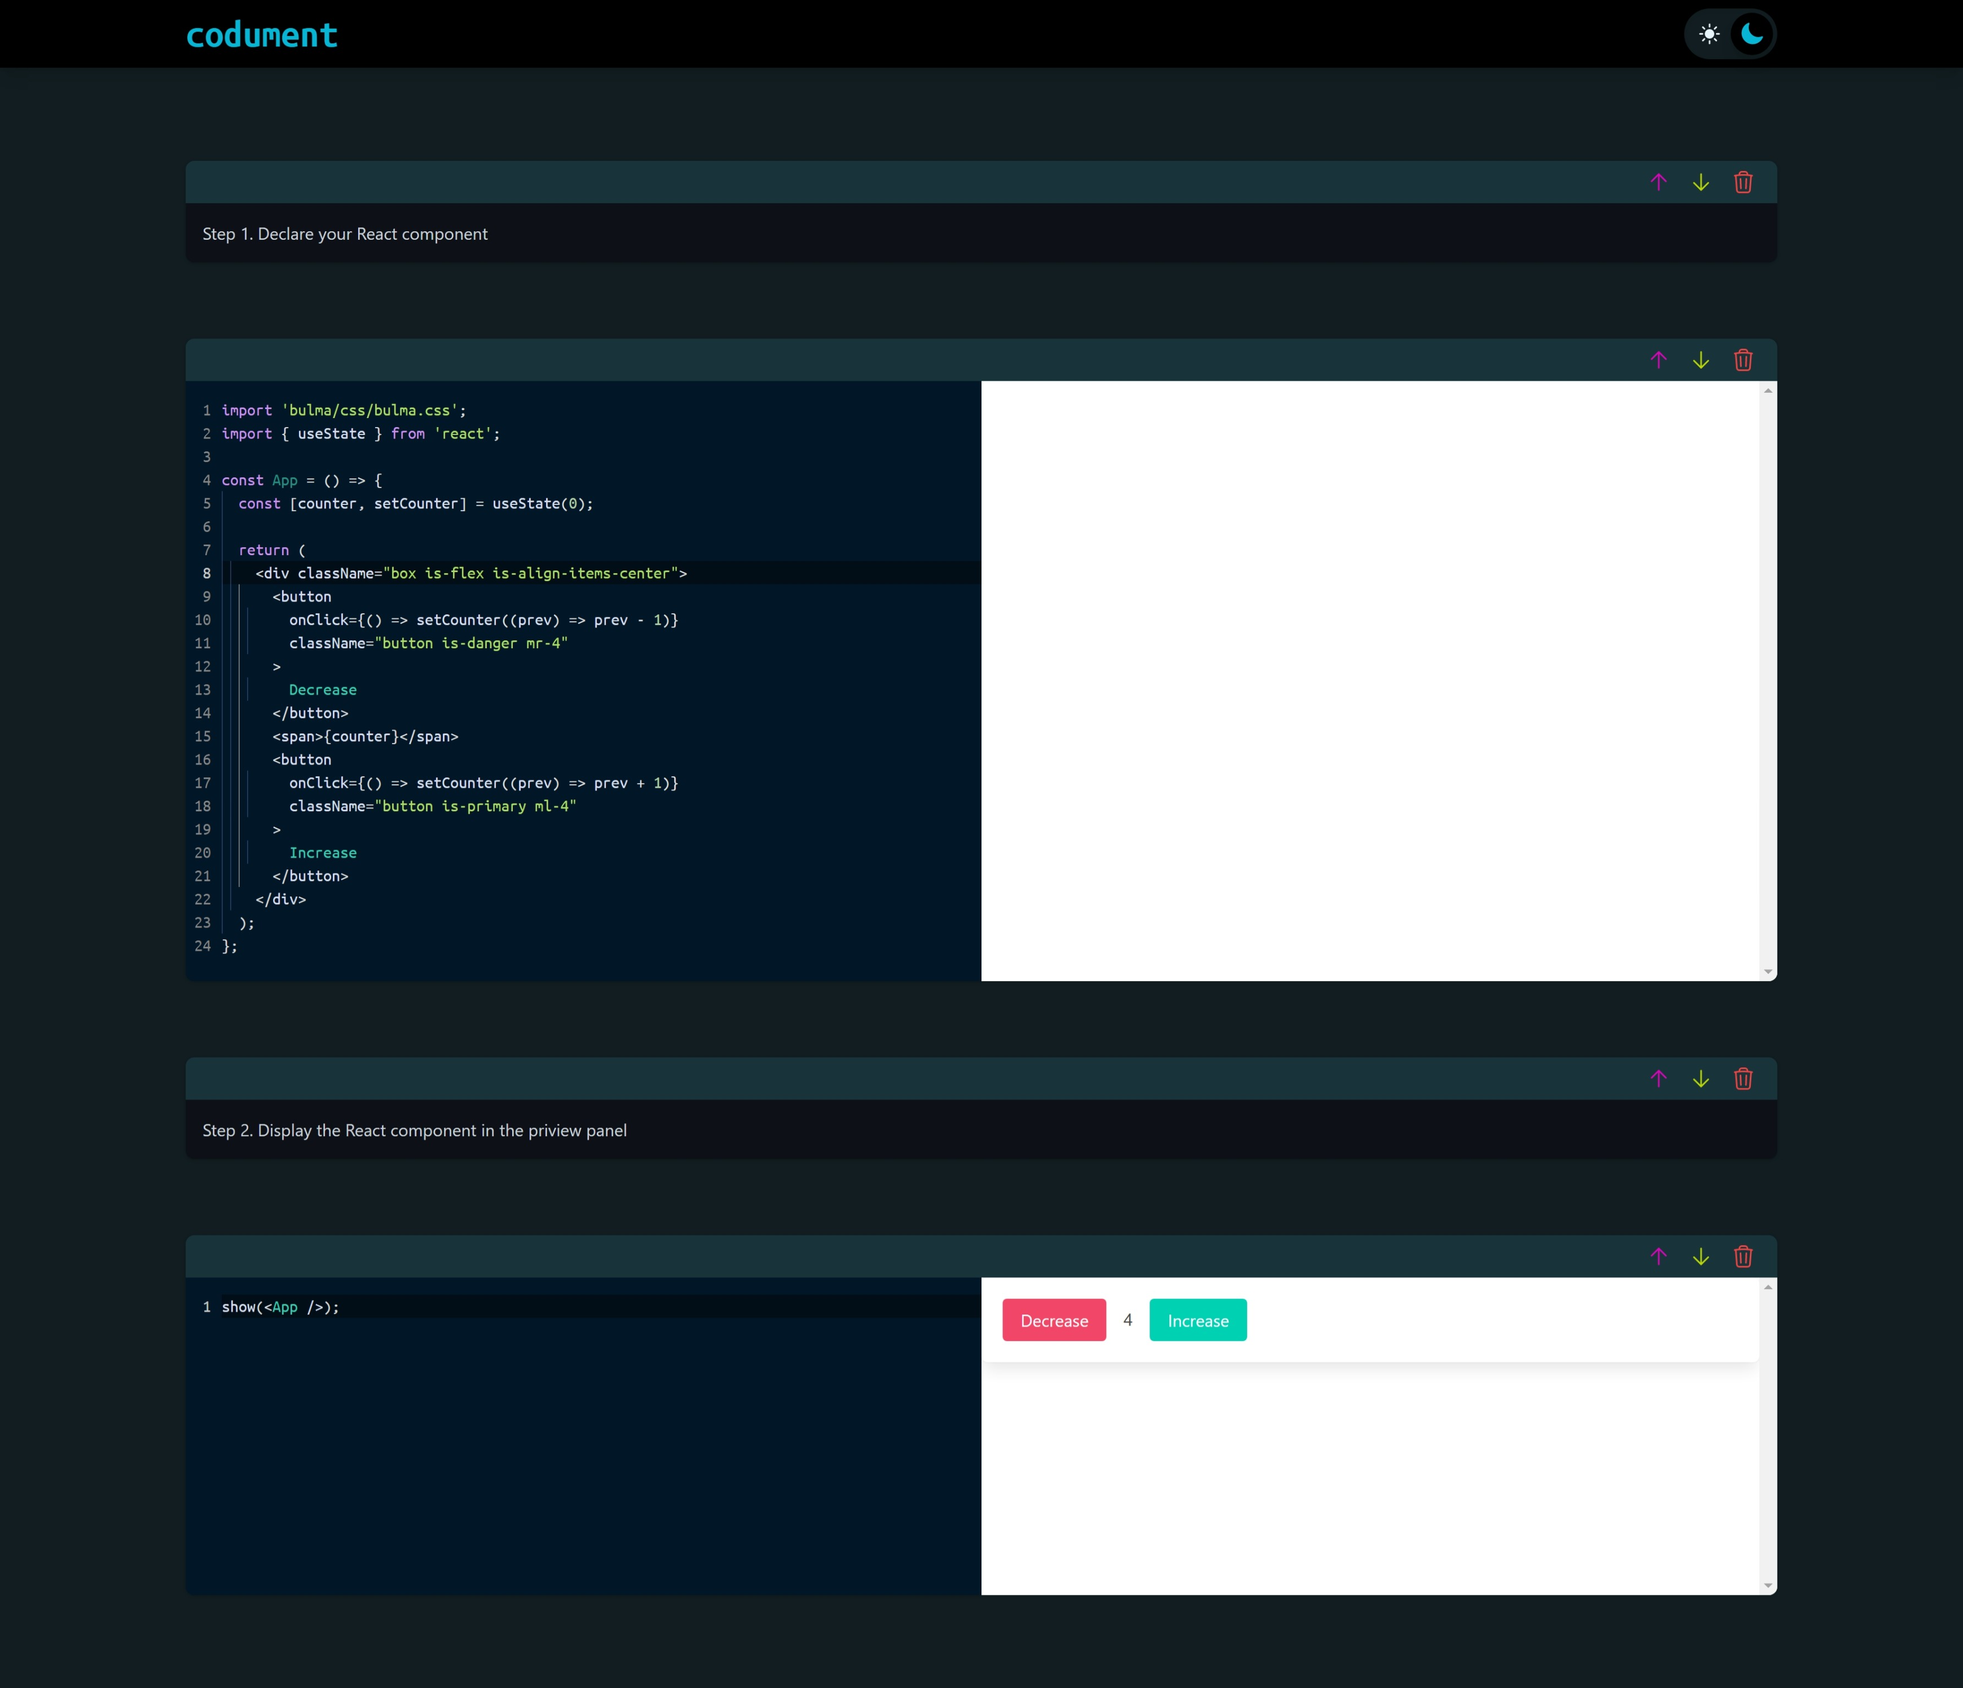
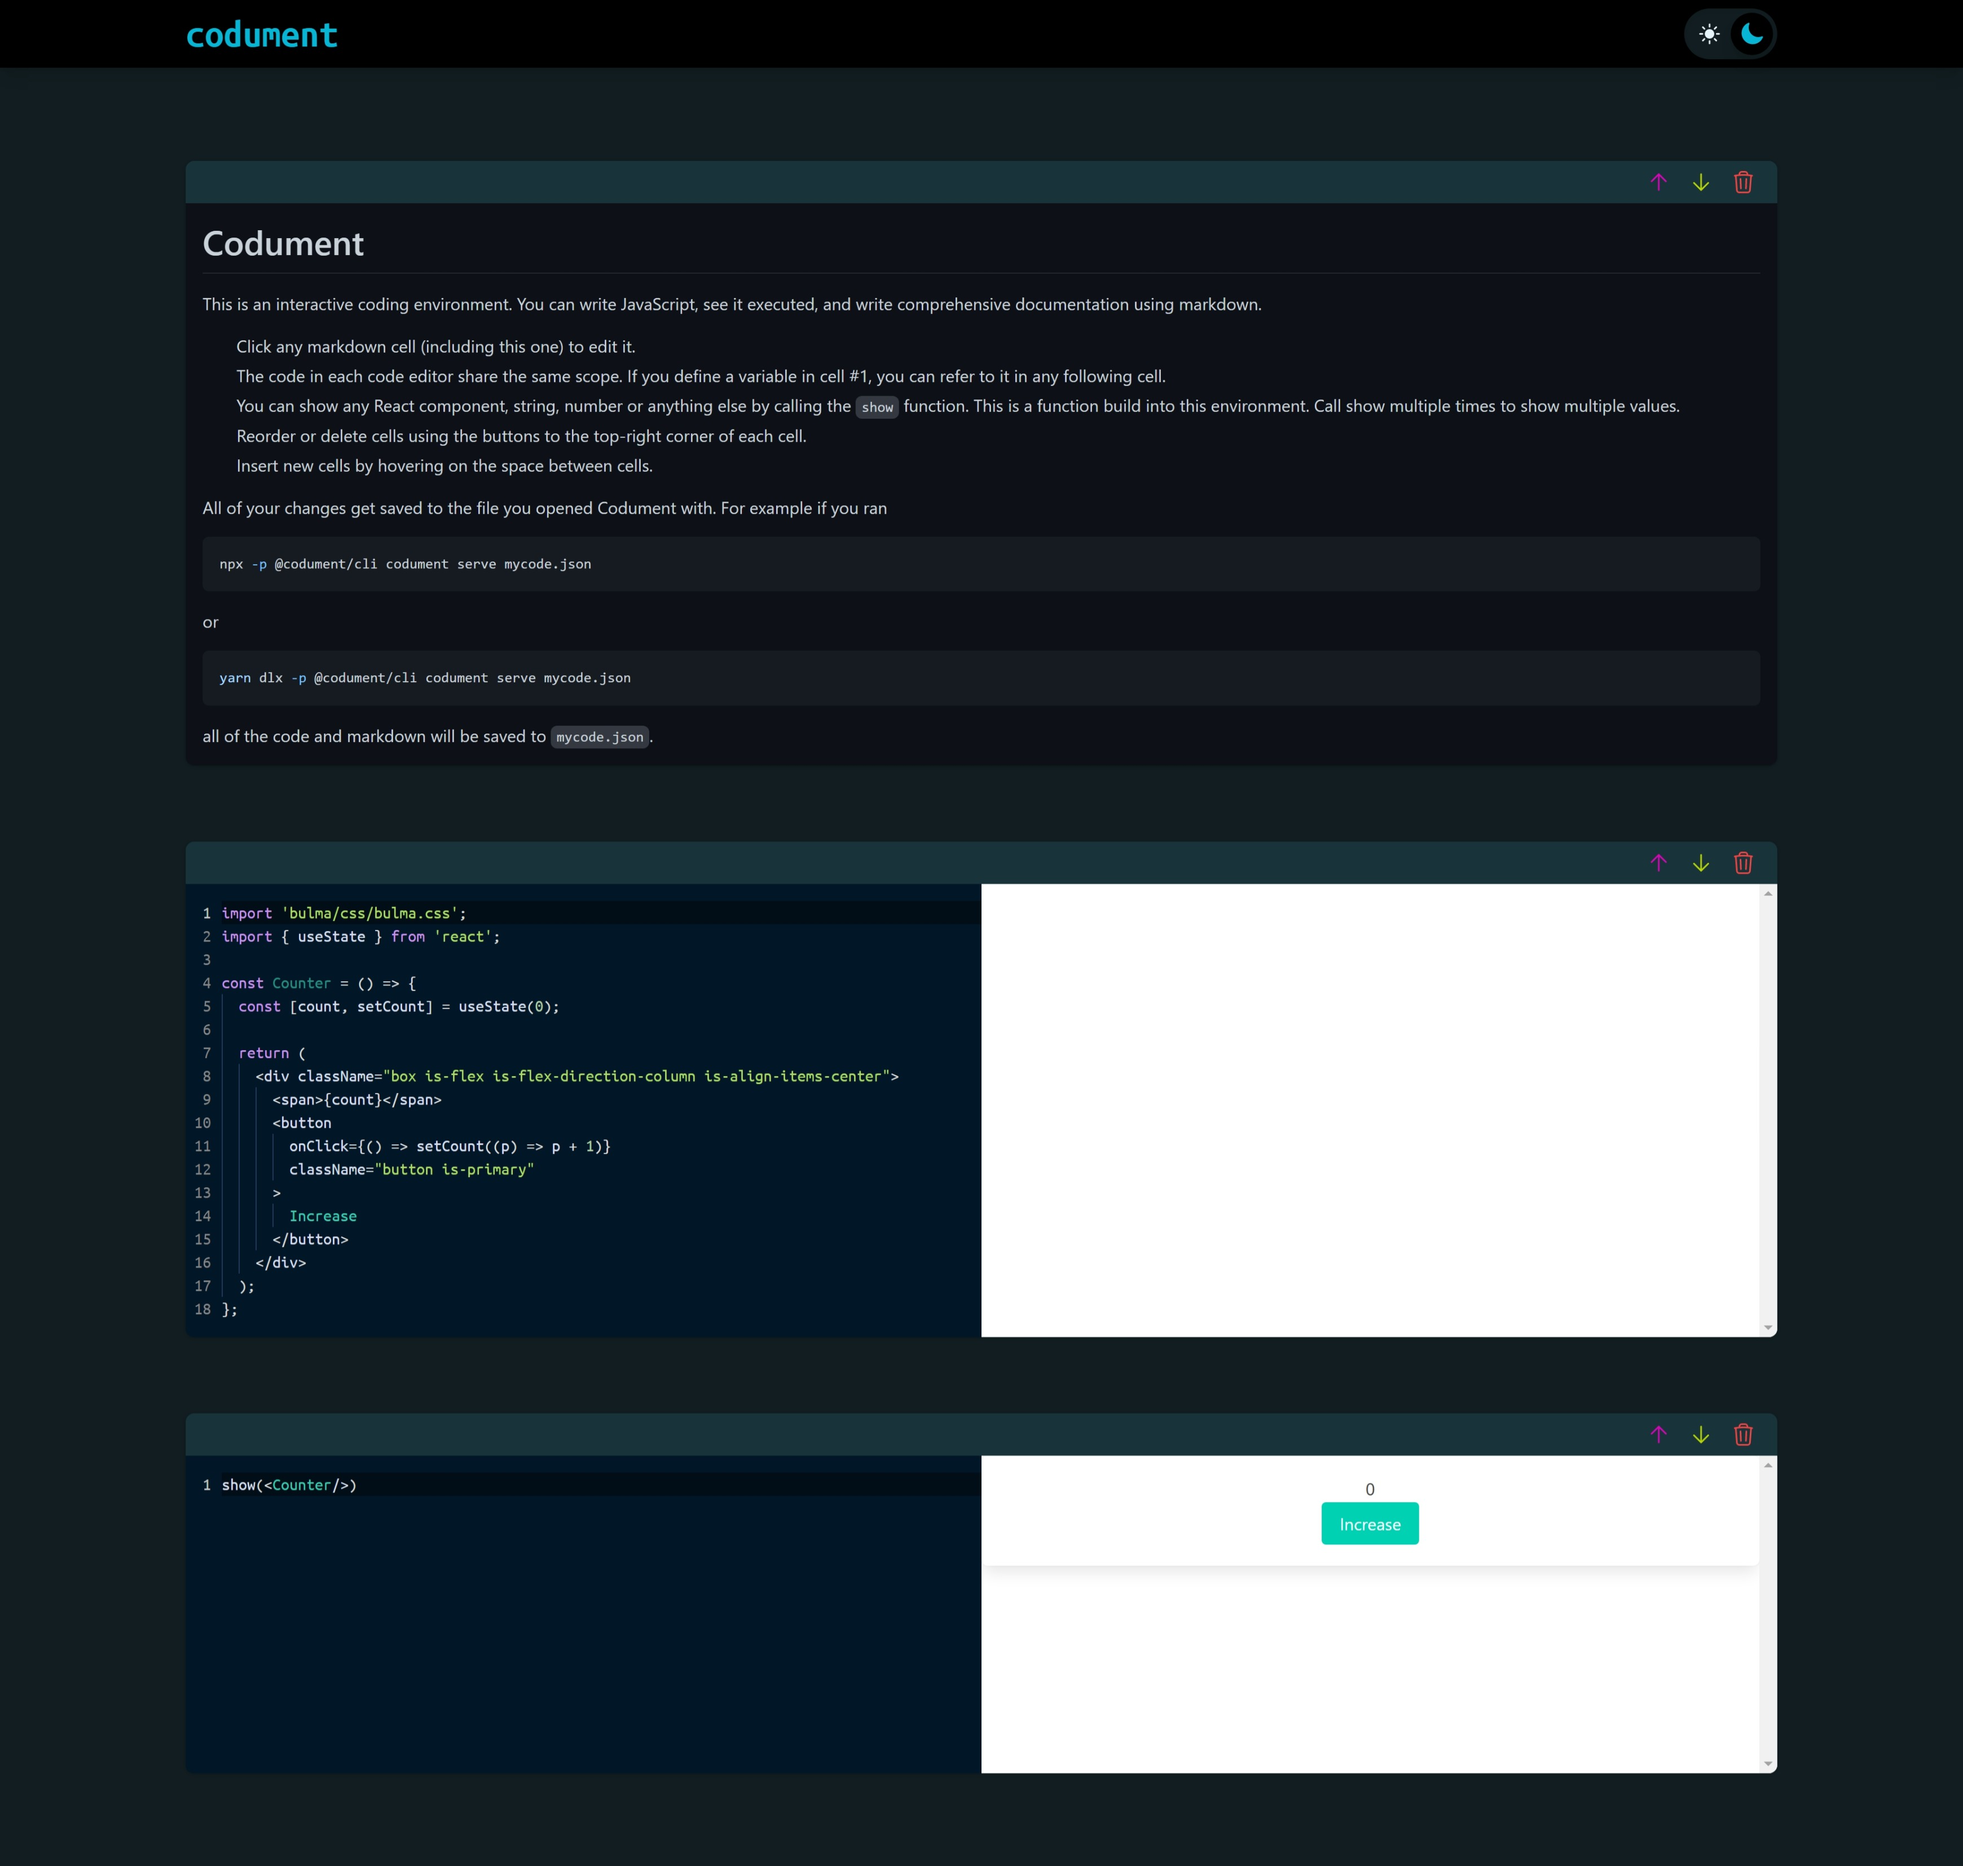
feat(ui): display default cells if file is new

diff --git a/packages/ui/src/features/cells/state/cells.slice.ts b/packages/ui/src/features/cells/state/cells.slice.ts
@@ -70,7 +70,30 @@ const cellsSlice = createSlice({
         (state, { payload }) => {
           const cells = payload;
           state.loading = false;
-          state.data = cellsAdapter.addMany(state.data, cells);
+          if (cells.length > 0)
+            state.data = cellsAdapter.addMany(state.data, cells);
+          else {
+            const defaultCells: Cell[] = [
+              {
+                content:
+                  '# Codument\n\nThis is an interactive coding environment. You can write JavaScript, see it executed, and write comprehensive documentation using markdown.\n\n- Click any markdown cell (including this one) to edit it.\n- The code in each code editor share the same scope. If you define a variable in cell #1, you can refer to it in any following cell.\n- You can show any React component, string, number or anything else by calling the `show` function. This is a function build into this environment. Call show multiple times to show multiple values.\n- Reorder or delete cells using the buttons to the top-right corner of each cell.\n- Insert new cells by hovering on the space between cells.\n\nAll of your changes get saved to the file you opened Codument with. For example if you ran\n\n```bash\nnpx -p @codument/cli codument serve mycode.json\n```\n\nor\n\n```bash\nyarn dlx -p @codument/cli codument serve mycode.json\n```\n\nall of the code and markdown will be saved to `mycode.json`.',
+                id: nanoid(),
+                type: 'markdown',
+              },
+              {
+                content:
+                  'import \'bulma/css/bulma.css\';\nimport { useState } from \'react\';\n\nconst Counter = () => {\n  const [count, setCount] = useState(0);\n\n  return (\n    <div className="box is-flex is-flex-direction-column is-align-items-center">\n      <span>{count}</span>\n      <button\n        onClick={() => setCount((p) => p + 1)}\n        className="button is-primary"\n      >\n        Increase\n      </button>\n    </div>\n  );\n};',
+                id: nanoid(),
+                type: 'code',
+              },
+              {
+                content: 'show(<Counter/>)',
+                id: nanoid(),
+                type: 'code',
+              },
+            ];
+            state.data = cellsAdapter.addMany(state.data, defaultCells);
+          }
         }
       ),
 });
